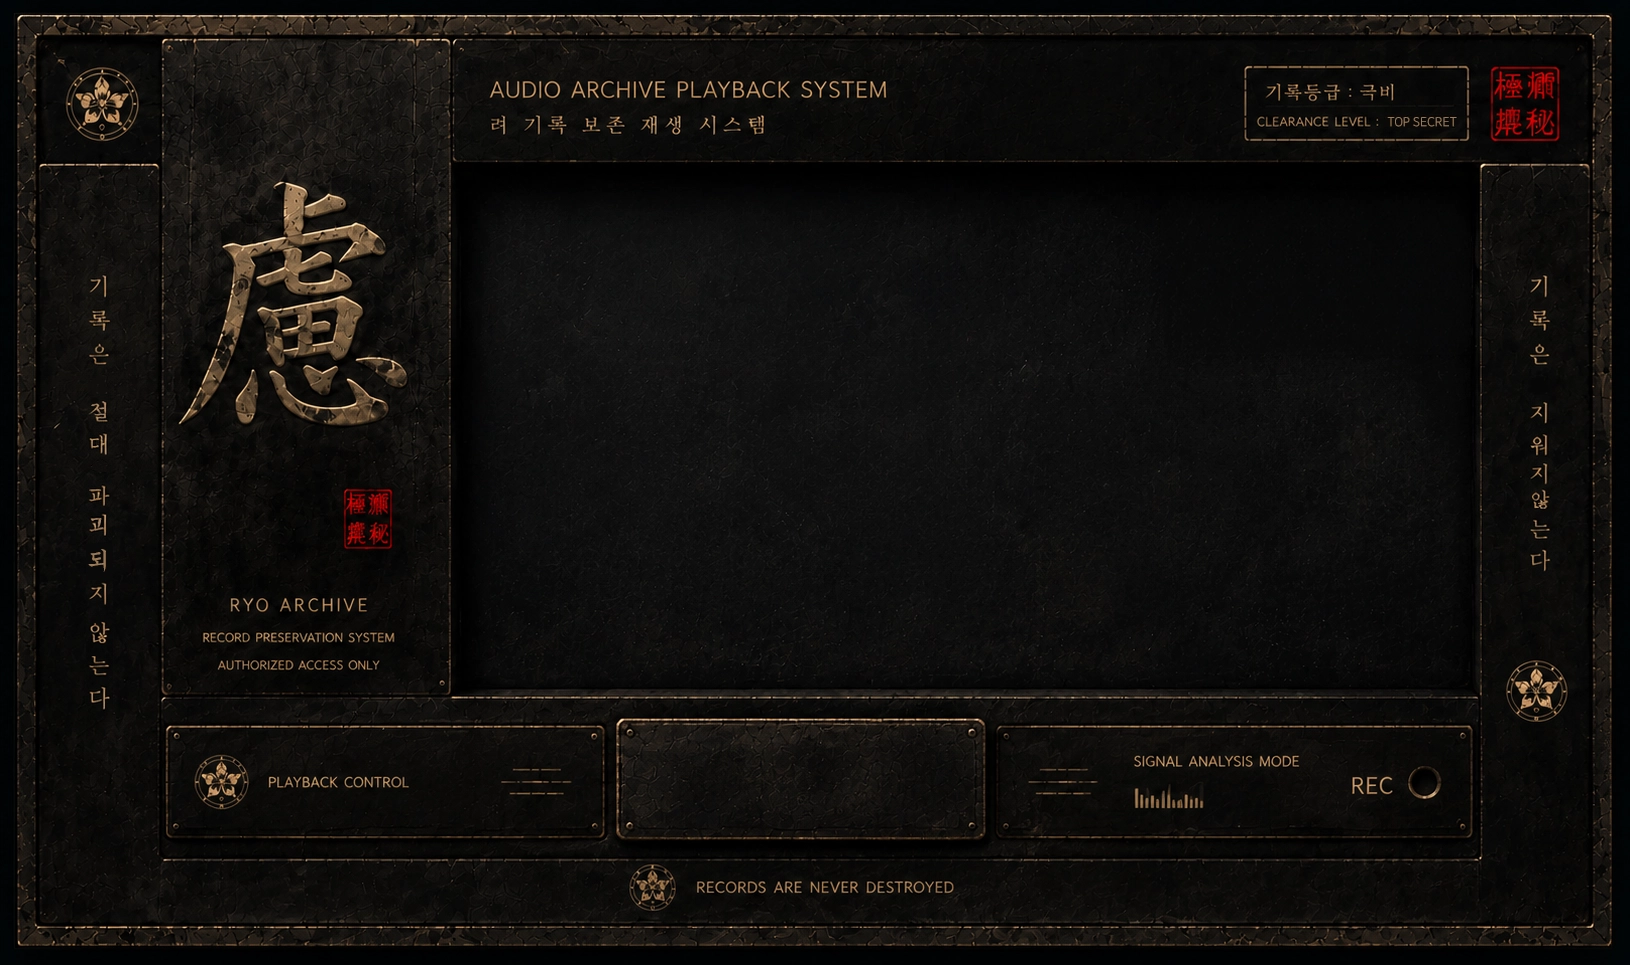
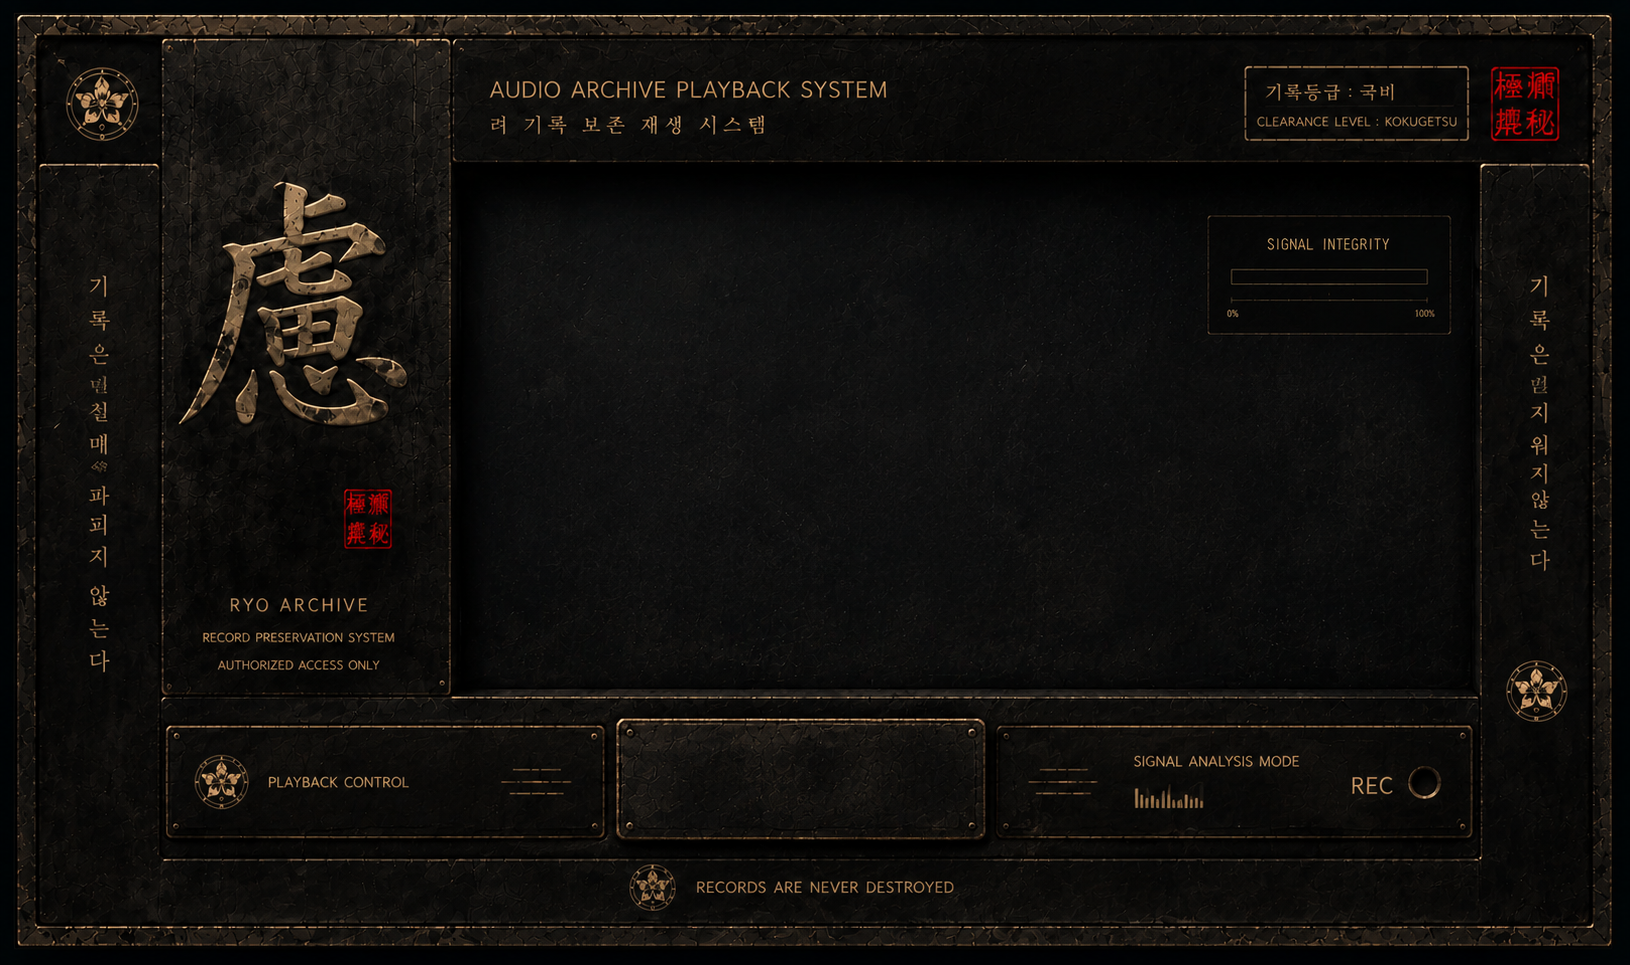
Add files via upload

diff --git a/audio-viewer.css b/audio-viewer.css
@@ -1,25 +1,225 @@
 
+/* v13.8 · RY AUDIO VIEWER
+   기준 배경: 1630 × 965
+   모든 동적 UI 좌표는 이미지 기준 % 좌표로 고정한다.
+*/
+
 .ry-audio-modal[hidden]{display:none!important}
-.ry-audio-modal{position:fixed;inset:0;z-index:100000;display:grid;place-items:center;padding:3vh 3vw;background:rgba(0,5,9,.9);backdrop-filter:blur(5px)}
-.ry-audio-shell{position:relative;width:min(95vw,1500px);aspect-ratio:16/9;overflow:hidden;background:#050708;box-shadow:0 30px 90px rgba(0,0,0,.78),0 0 0 1px rgba(218,185,120,.12)}
-.ry-audio-bg{position:absolute;inset:0;width:100%;height:100%;object-fit:cover;pointer-events:none;user-select:none}
-.ry-wave-mask{position:absolute;left:29.3%;top:35.8%;width:61.4%;height:29.2%;background:rgba(3,6,7,.92);box-shadow:inset 0 0 55px rgba(0,0,0,.55);pointer-events:none}
-.ry-audio-wave{position:absolute;left:29.3%;top:35.8%;width:61.4%;height:29.2%;pointer-events:none;filter:drop-shadow(0 0 7px rgba(232,207,151,.33))}
-.ry-signal-mask{position:absolute;left:79.5%;top:23.5%;width:10.8%;height:15.5%;background:rgba(4,7,8,.96);pointer-events:none}
-.ry-signal-label{position:absolute;left:80.65%;top:24.2%;font:500 clamp(7px,.65vw,12px)/1.2 ui-monospace,monospace;color:rgba(218,190,130,.62);letter-spacing:.08em}
-.ry-signal-value{position:absolute;left:80.65%;top:27.5%;font:400 clamp(14px,2.05vw,34px)/1 ui-monospace,monospace;color:#dfc27f;text-shadow:0 0 12px rgba(217,185,120,.24)}
-.ry-signal-bars{position:absolute;left:80.7%;top:32.7%;width:6.1%;height:.72%;border:1px solid rgba(217,185,120,.18);background:rgba(217,185,120,.08);overflow:hidden}
-.ry-signal-bars>i{display:block;width:67%;height:100%;background:linear-gradient(90deg,#8d6b2d,#e2bd62);transition:width .8s ease}
-.ry-rec-led{position:absolute;left:86.9%;top:85.15%;width:clamp(6px,.85vw,13px);aspect-ratio:1;border-radius:50%;background:#d9473c;box-shadow:0 0 8px rgba(217,71,60,.6);opacity:.38}
-.ry-audio-shell.is-playing .ry-rec-led{animation:ryRecPulse 1.7s ease-in-out infinite}
-@keyframes ryRecPulse{0%,100%{opacity:.32;box-shadow:0 0 4px rgba(217,71,60,.3)}52%{opacity:1;box-shadow:0 0 15px rgba(217,71,60,.95)}}
-.ry-audio-toggle{position:absolute;left:39.1%;top:80.2%;width:20.8%;height:10.7%;padding:0;border:0;background:transparent;cursor:pointer;color:#efd396}
-.ry-audio-toggle span{position:absolute;top:50%;transform:translateY(-50%);font-size:clamp(18px,2.3vw,39px);text-shadow:0 0 9px rgba(239,211,150,.45);transition:.18s}
-.ry-audio-toggle .play-icon{left:31%}.ry-audio-toggle .pause-icon{right:28%}
-.ry-audio-toggle[aria-pressed=false] .play-icon{opacity:1}.ry-audio-toggle[aria-pressed=false] .pause-icon{opacity:.28}
-.ry-audio-toggle[aria-pressed=true] .play-icon{opacity:.28}.ry-audio-toggle[aria-pressed=true] .pause-icon{opacity:1}
-.ry-audio-close{position:absolute;right:1.1%;top:1.2%;z-index:3;width:36px;height:36px;border:1px solid rgba(217,185,120,.28);background:rgba(3,5,6,.82);color:#cbb17d;cursor:pointer;font-size:21px}
-.ry-audio-caption{position:absolute;left:30.3%;bottom:2.55%;max-width:48%;overflow:hidden;text-overflow:ellipsis;white-space:nowrap;color:rgba(217,185,120,.5);font:500 clamp(8px,.72vw,12px)/1.2 ui-monospace,monospace;letter-spacing:.08em}
+
+.ry-audio-modal{
+  position:fixed;
+  inset:0;
+  z-index:100000;
+  display:grid;
+  place-items:center;
+  padding:2vh 2vw;
+  background:rgba(0,5,9,.92);
+  backdrop-filter:blur(5px);
+}
+
+/* 중요:
+   배경 이미지 비율(1630/965)과 shell 비율을 동일하게 유지.
+   object-fit:cover 사용 금지 — 좌표가 틀어지는 원인이 됨.
+*/
+.ry-audio-shell{
+  position:relative;
+  width:min(96vw, calc(94vh * 1630 / 965), 1630px);
+  aspect-ratio:1630 / 965;
+  overflow:hidden;
+  background:#050708;
+  box-shadow:
+    0 30px 90px rgba(0,0,0,.78),
+    0 0 0 1px rgba(218,185,120,.12);
+}
+
+.ry-audio-bg{
+  position:absolute;
+  inset:0;
+  width:100%;
+  height:100%;
+  object-fit:contain;
+  pointer-events:none;
+  user-select:none;
+}
+
+/* 새 배경은 이미 비어 있는 하드웨어 프레임이므로
+   예전 검은 마스크와 중복 SIGNAL 라벨은 사용하지 않는다. */
+.ry-wave-mask,
+.ry-signal-mask,
+.ry-signal-label{
+  display:none!important;
+}
+
+/* ─────────────────────────────────────────
+   실제 오디오 파형
+   중앙 디스플레이 내부 전용
+   ───────────────────────────────────────── */
+.ry-audio-wave{
+  position:absolute;
+  left:28.10%;
+  top:31.80%;
+  width:60.45%;
+  height:26.20%;
+  pointer-events:none;
+  filter:drop-shadow(0 0 6px rgba(232,207,151,.28));
+}
+
+/* ─────────────────────────────────────────
+   SIGNAL INTEGRITY
+   배경의 우측 상단 계기판 안에 삽입
+   ───────────────────────────────────────── */
+.ry-signal-value{
+  position:absolute;
+  left:76.15%;
+  top:25.25%;
+  width:8.10%;
+  font:400 clamp(13px,1.85vw,31px)/1 ui-monospace,SFMono-Regular,Menlo,Consolas,monospace;
+  color:#dfc27f;
+  letter-spacing:.01em;
+  text-align:left;
+  text-shadow:0 0 10px rgba(217,185,120,.22);
+  pointer-events:none;
+}
+
+.ry-signal-bars{
+  position:absolute;
+  left:76.15%;
+  top:28.05%;
+  width:10.90%;
+  height:.72%;
+  border:1px solid rgba(217,185,120,.20);
+  background:rgba(217,185,120,.06);
+  overflow:hidden;
+  pointer-events:none;
+}
+
+.ry-signal-bars>i{
+  display:block;
+  width:67%;
+  height:100%;
+  background:linear-gradient(90deg,#8d6b2d,#e2bd62);
+  transition:width .8s ease;
+}
+
+/* ─────────────────────────────────────────
+   PLAY / PAUSE
+   배경 중앙 하단 recessed control plate 전체를 클릭 영역으로 사용
+   아이콘 위치도 plate 내부 % 좌표
+   ───────────────────────────────────────── */
+.ry-audio-toggle{
+  position:absolute;
+  left:37.25%;
+  top:74.00%;
+  width:22.55%;
+  height:11.35%;
+  padding:0;
+  border:0;
+  background:transparent;
+  cursor:pointer;
+  color:#efd396;
+}
+
+.ry-audio-toggle span{
+  position:absolute;
+  top:50%;
+  transform:translateY(-50%);
+  font-size:clamp(18px,2.15vw,38px);
+  line-height:1;
+  text-shadow:0 0 9px rgba(239,211,150,.45);
+  transition:opacity .18s, filter .18s;
+  pointer-events:none;
+}
+
+.ry-audio-toggle .play-icon{left:29.2%}
+.ry-audio-toggle .pause-icon{right:29.2%}
+
+.ry-audio-toggle[aria-pressed=false] .play-icon{
+  opacity:1;
+  filter:drop-shadow(0 0 7px rgba(239,211,150,.48));
+}
+.ry-audio-toggle[aria-pressed=false] .pause-icon{opacity:.25}
+
+.ry-audio-toggle[aria-pressed=true] .play-icon{opacity:.25}
+.ry-audio-toggle[aria-pressed=true] .pause-icon{
+  opacity:1;
+  filter:drop-shadow(0 0 7px rgba(239,211,150,.48));
+}
+
+/* ─────────────────────────────────────────
+   REC LED
+   배경의 원형 빈 소켓 정중앙
+   left/top은 소켓 중심점
+   ───────────────────────────────────────── */
+.ry-rec-led{
+  position:absolute;
+  left:85.78%;
+  top:79.64%;
+  width:.92%;
+  aspect-ratio:1;
+  transform:translate(-50%,-50%);
+  border-radius:50%;
+  background:#d9473c;
+  box-shadow:0 0 8px rgba(217,71,60,.6);
+  opacity:.34;
+  pointer-events:none;
+}
+
+.ry-audio-shell.is-playing .ry-rec-led{
+  animation:ryRecPulse 1.7s ease-in-out infinite;
+}
+
+@keyframes ryRecPulse{
+  0%,100%{
+    opacity:.28;
+    box-shadow:0 0 3px rgba(217,71,60,.28);
+  }
+  52%{
+    opacity:1;
+    box-shadow:0 0 13px rgba(217,71,60,.92);
+  }
+}
+
+/* 닫기 버튼도 shell 기준 상대 위치 */
+.ry-audio-close{
+  position:absolute;
+  right:1.00%;
+  top:1.15%;
+  z-index:3;
+  width:2.35%;
+  min-width:28px;
+  aspect-ratio:1;
+  border:1px solid rgba(217,185,120,.28);
+  background:rgba(3,5,6,.82);
+  color:#cbb17d;
+  cursor:pointer;
+  font-size:clamp(16px,1.35vw,22px);
+  line-height:1;
+}
+
+/* 사건별 자료 제목/번호.
+   배경 프레임을 침범하지 않도록 최하단 중앙 한 곳에만 표시. */
+.ry-audio-caption{
+  position:absolute;
+  left:37%;
+  bottom:1.35%;
+  width:26%;
+  overflow:hidden;
+  text-overflow:ellipsis;
+  white-space:nowrap;
+  text-align:center;
+  color:rgba(217,185,120,.48);
+  font:500 clamp(7px,.68vw,11px)/1.2 ui-monospace,SFMono-Regular,Menlo,Consolas,monospace;
+  letter-spacing:.08em;
+  pointer-events:none;
+}
+
+@media(max-width:700px){
+  .ry-audio-modal{padding:1.5vh 1.5vw}
+  .ry-audio-shell{width:min(97vw, calc(92vh * 1630 / 965))}
+  .ry-audio-caption{display:none}
+  .ry-audio-close{min-width:26px}
+}
+
 .record-attachments{margin-top:24px;padding-top:18px;border-top:1px solid rgba(140,160,180,.16)}
 .record-attachments h3{margin:0 0 10px;font-size:13px;letter-spacing:.13em;color:#91a8bd}
 .attachment-list{display:grid;gap:8px}

diff --git a/audio-viewer.js b/audio-viewer.js
@@ -1,11 +1,11 @@
 
 class RYAudioViewer{
-  constructor(bg='/assets/ry-audio-viewer-bg.webp'){this.bg=bg;this.signal=67;this.target=67;this.timer=0;this.raf=0;this.build()}
+  constructor(bg='/assets/ry-audio-viewer-bg.webp?v=13.8'){this.bg=bg;this.signal=67;this.target=67;this.timer=0;this.raf=0;this.build()}
   build(){
     const m=document.createElement('div');m.className='ry-audio-modal';m.hidden=true;
     m.innerHTML=`<div class="ry-audio-shell" role="dialog" aria-modal="true" aria-label="려 음성 기록 재생">
       <img class="ry-audio-bg" alt="" draggable="false"><div class="ry-wave-mask"></div><canvas class="ry-audio-wave"></canvas>
-      <div class="ry-signal-mask"></div><div class="ry-signal-label">SIGNAL INTEGRITY</div><div class="ry-signal-value">67%</div><div class="ry-signal-bars"><i></i></div>
+      <div class="ry-signal-mask"></div><div class="ry-signal-value">67%</div><div class="ry-signal-bars"><i></i></div>
       <div class="ry-rec-led"></div>
       <button class="ry-audio-toggle" type="button" aria-pressed="false" aria-label="재생 또는 일시정지"><span class="play-icon">▶</span><span class="pause-icon">Ⅱ</span></button>
       <button class="ry-audio-close" type="button" aria-label="닫기">×</button><div class="ry-audio-caption"></div><audio preload="metadata"></audio></div>`;

diff --git a/index.html b/index.html
@@ -7,7 +7,7 @@
   <meta name="description" content="생활환경기록보존원은 생활과 환경의 변화 속에서 발생하는 다양한 기록을 수집·보존·정리하는 비영리 공공재단입니다." />
   <link rel="icon" type="image/svg+xml" href="assets/logo-approved.png" />
   <link rel="stylesheet" href="styles.css" />
-  <link rel="stylesheet" href="audio-viewer.css" />
+  <link rel="stylesheet" href="audio-viewer.css?v=13.8" />
 </head>
 <body>
 
@@ -830,7 +830,7 @@
     </article>
   </div>
   <script src="archive-data.js"></script>
-  <script src="audio-viewer.js"></script>
+  <script src="audio-viewer.js?v=13.8"></script>
   <script src="script.js"></script>
 </body>
 </html>

diff --git a/README.md b/README.md
@@ -1,6 +1,6 @@
 # 慮 記錄網 · MASTER README
 
-CURRENT VERSION: v13.7 DRAFT ATTACH MASTER
+CURRENT VERSION: v13.8 AUDIO PERCENT ALIGN MASTER
 UPDATED: 2026-08-08
 
 ## 프로젝트 개요
@@ -127,6 +127,16 @@ Cloudflare R2 버킷을 하나 생성합니다.
 ---
 
 ## 업데이트 이력
+
+### v13.8 AUDIO PERCENT ALIGN MASTER
+- AUDIO VIEWER 기준 배경을 최신 `1630×965` `ry-audio-viewer-bg.webp`로 교체
+- `.ry-audio-shell` 비율을 기존 16:9에서 실제 배경 비율 `1630/965`로 변경
+- 배경 `object-fit: cover` 제거, `contain` 사용으로 크롭에 의한 좌표 오차 제거
+- 파형 / SIGNAL 값 / SIGNAL bar / 재생·일시정지 / REC LED를 모두 이미지 기준 `%` 좌표로 재정렬
+- 새 배경에 이미 존재하는 고정 SIGNAL 라벨을 웹에서 중복 표시하지 않도록 제거
+- 중앙 재생 버튼판 전체를 실제 클릭 영역으로 설정
+- REC LED를 배경의 원형 소켓 정중앙에 배치
+- AUDIO VIEWER CSS / JS / 배경 이미지에 `v13.8` 캐시 버전 적용
 
 ### v13.7 DRAFT ATTACH MASTER
 - 새 사건에서도 `기록 저장` 전에 음성/이미지 업로드 가능
